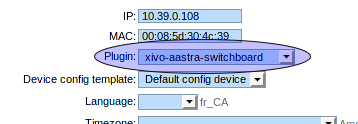
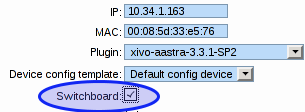
update switchboard configuration

diff --git a/source/administration/switchboard/switchboard.rst b/source/administration/switchboard/switchboard.rst
@@ -41,7 +41,7 @@ In order to configure a switchboard on your XiVO, you need to:
 * Create a queue for your switchboard
 * Create a queue for your switchboard's calls on hold
 * Create the users that will be operators
-* Assign the switchboard plugin to your user
+* Activate the switchboard option for your phone
 * Create an agent for your user
 * Assign the incoming calls to the switchboard queue
 * For each operator, add a function key for logging in or logging out from the switchboard queue.
@@ -125,17 +125,17 @@ The following configuration is mandatory for switchboard users
 .. figure:: images/user_general.png
 
 
-Set the Switchboard Plugin on your Phone
-----------------------------------------
+Activate the Switchboard Option for your Phone
+----------------------------------------------
 
-The provisioning plugin for the switchboard must be *xivo-aastra-switchboard* or *xivo-snom-switchboard*.
+For the switchboard to work properly, your Aastra or Snom phone must use
+a *xivo-aastra* or *xivo-snom* provisioning plugin respectively.
 
-See :ref:`provd-plugins-mgmt` for more details.
-
-The switchboard plugin must be set on the user's device.
+The switchboard option must also be activated on the phone. It's possible to activate
+this option only on supported phones and plugins.
 
 * Edit device associated to your user in :menuselection:`Services --> Devices`
-* Select the appropriate switchboard plugin and save
+* Check the switchboard checkbox and save
 * Synchronize you phone to apply the changes
 
 .. figure:: images/device_plugin_switchboard.png
